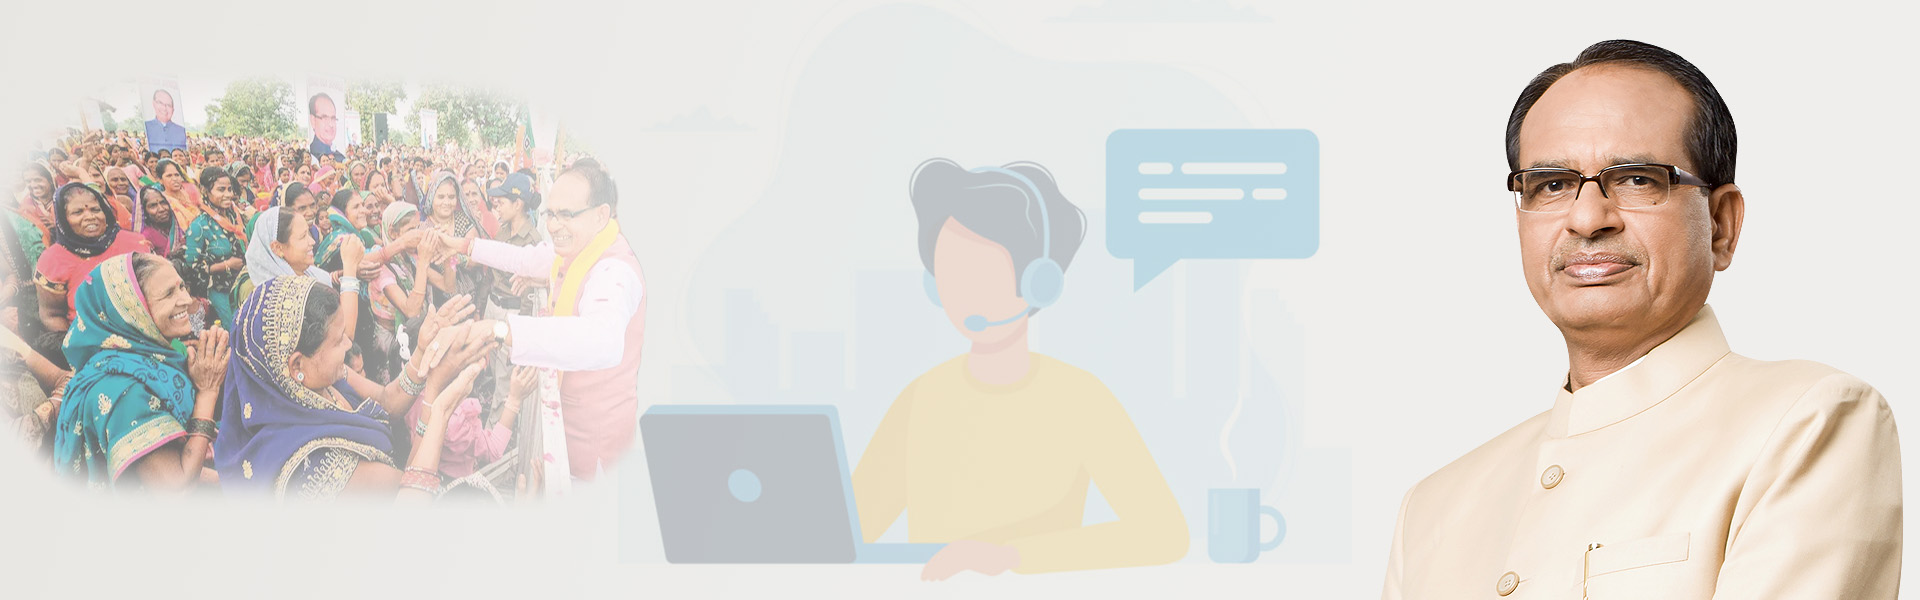
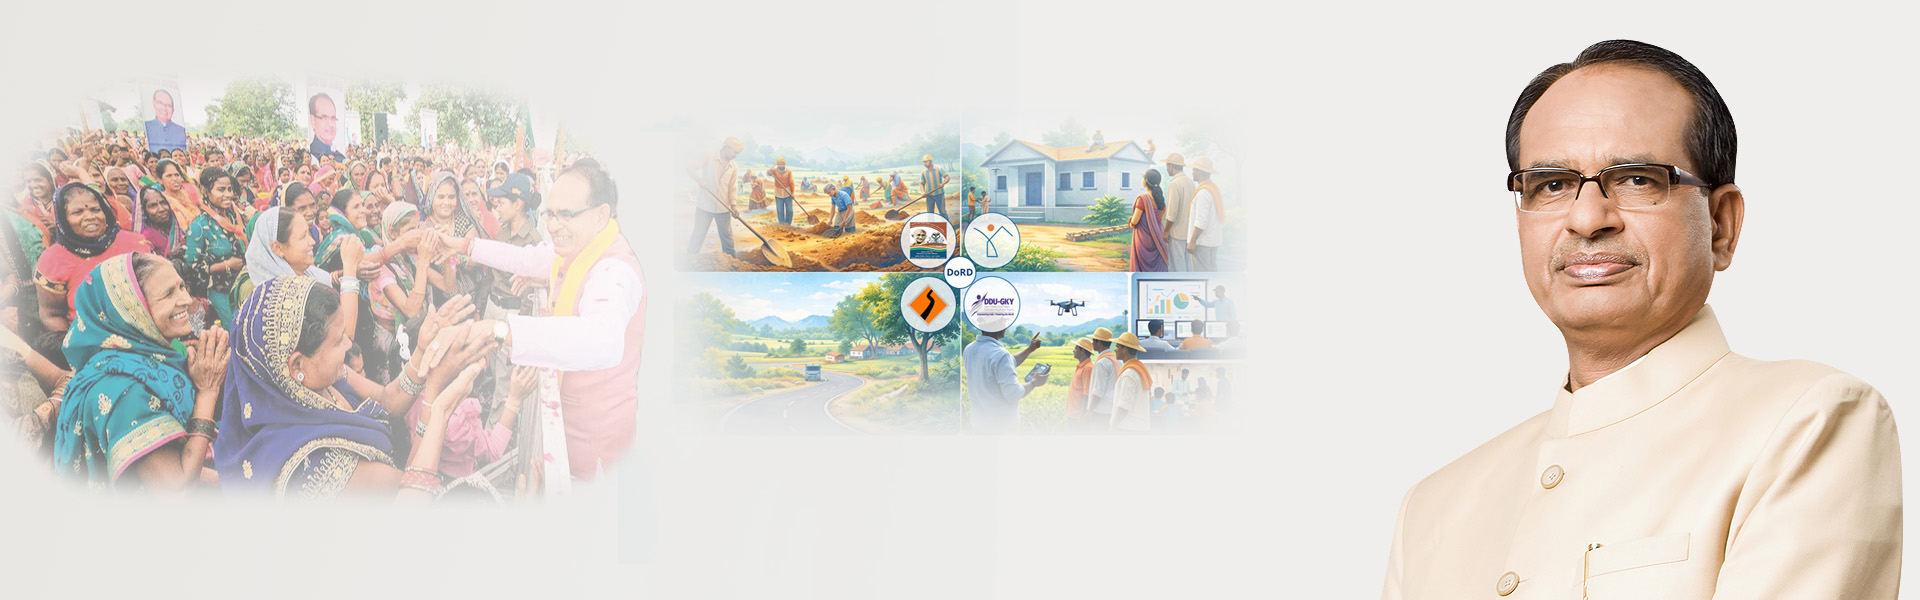
naidm

Changed region(s): [[0.3125, 0.21, 0.6875, 0.96]]

diff --git a/src/app/core/components/home/home.component.html b/src/app/core/components/home/home.component.html
@@ -91,18 +91,9 @@
     <section class="hero-card p-5 rounded-3 shadow-sm bg-white">
         <div class="row align-items-center g-4">
             <!-- Left: speech card -->
-            <div class="col-md-5 col-lg-6 d-flex justify-content-center">
-                <div class="speech-card p-3 pb-0 text-center rounded-3" style="width: 300px;">
-                    <h5 class="mb-3">Write to<br>
-                        <strong>Rural Development<br>
-                            Minister</strong>
-                    </h5>
-                    <div class="avatar" aria-hidden="true">
-                        <!-- simple avatar inline svg -->
-                        <img src="../assets/images/girl-pointing.png" alt="Cartoon Woman" class="img-fluid" />
-                    </div>
+           <div class="col-md-5 col-lg-6 d-flex justify-content-center">
+                <img src="/assets/images/process.jpg" alt="Cartoon Woman" class="img-fluid">
                 </div>
-            </div>
 
             <!-- Center: big image (your uploaded image) -->
             <div class="col-md-7 col-lg-6 text-center d-flex justify-content-center">

diff --git a/src/app/modules/citzen/graviance-list/graviance-list.component.ts b/src/app/modules/citzen/graviance-list/graviance-list.component.ts
@@ -300,4 +300,5 @@ exportToPdf() {
   doc.save(`Citizen_Grievance_List_${Date.now()}.pdf`);
 }
 
+
 }
